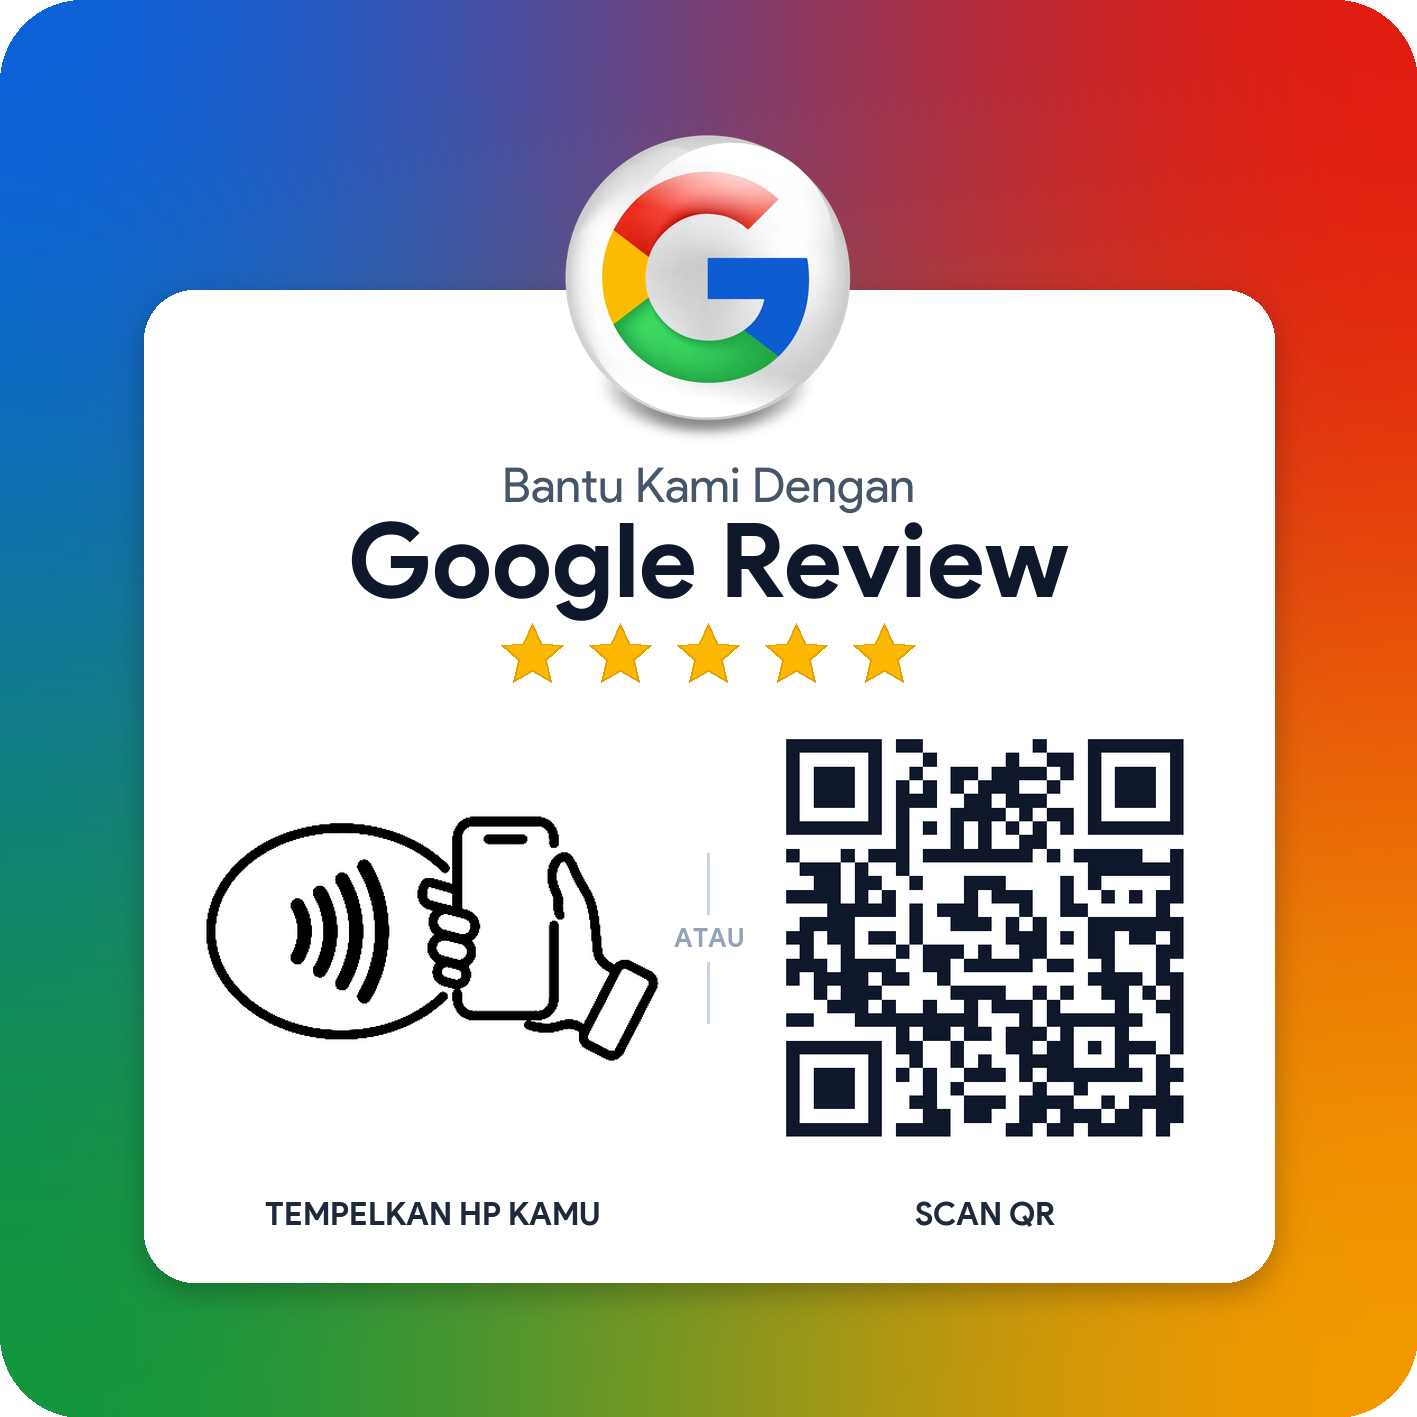
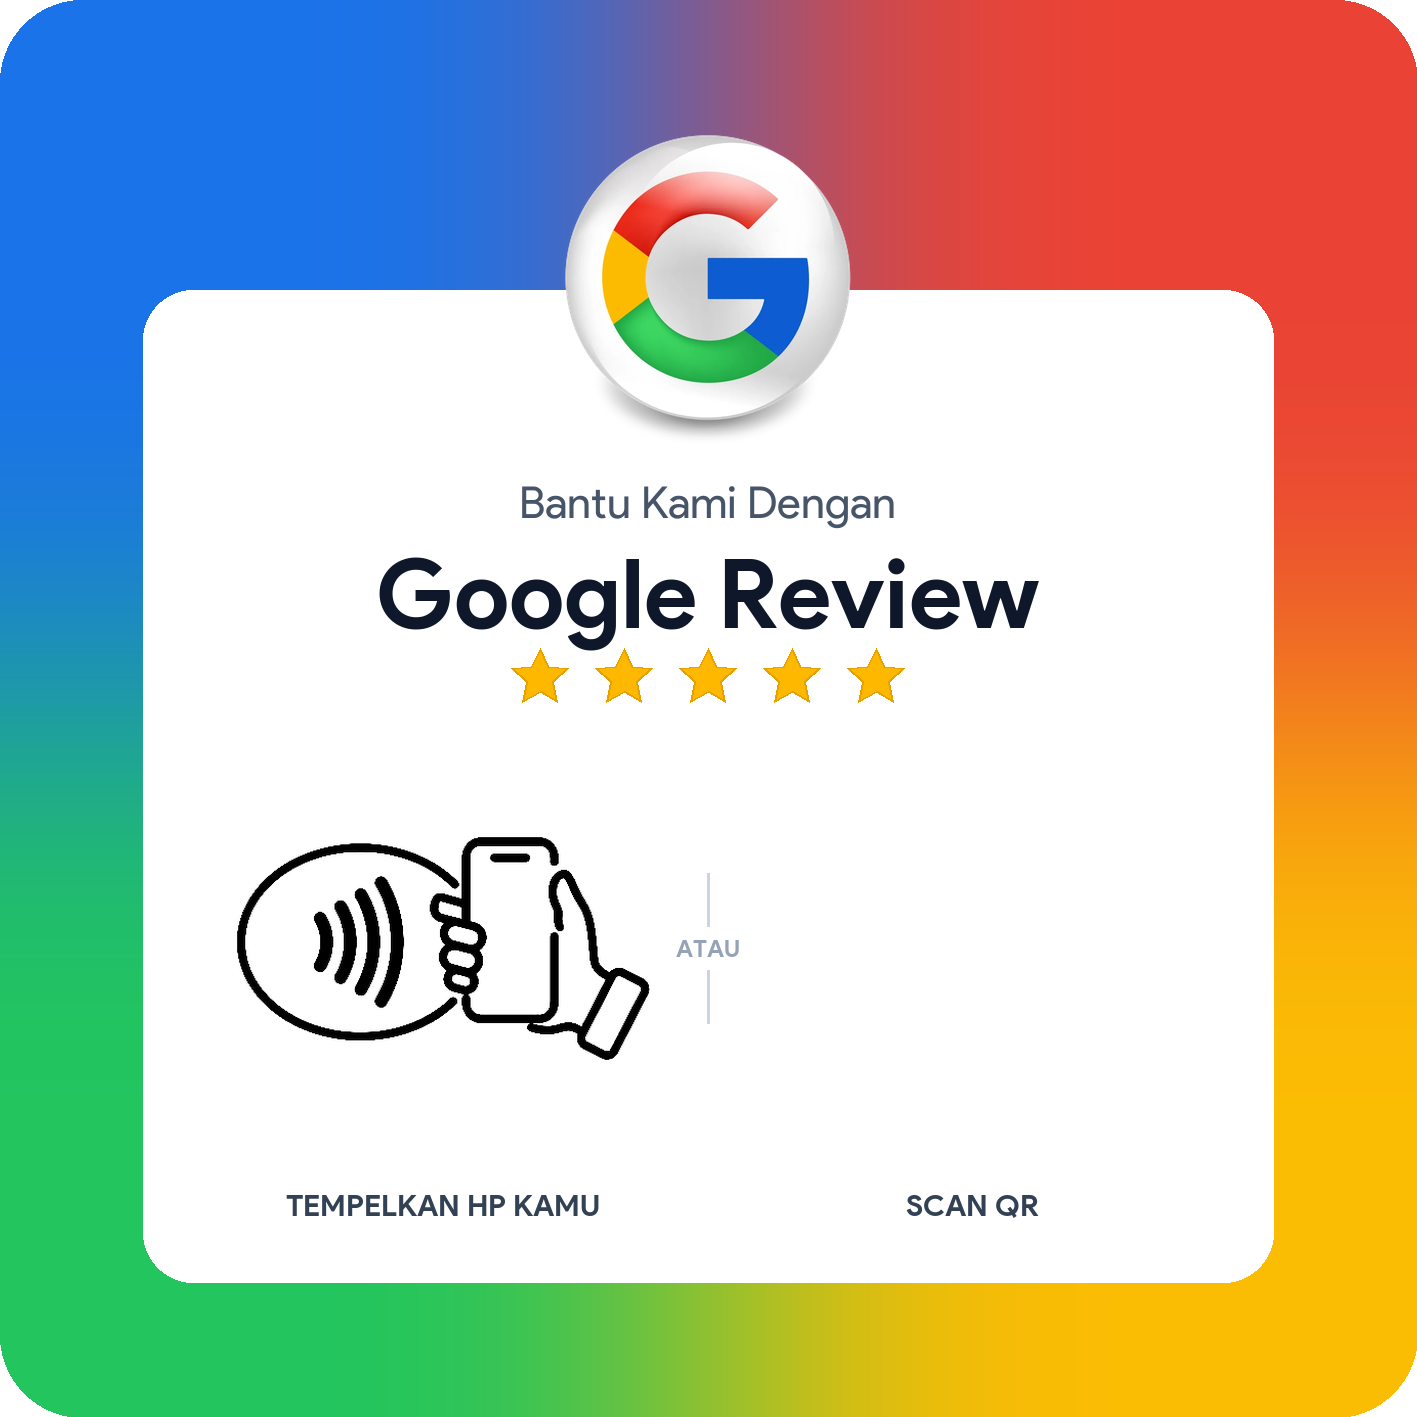
fix: calibrate proportional typography and vertical rhythm on canvas print stickers and preview

diff --git a/src/app/admin/print-stickers/page.tsx b/src/app/admin/print-stickers/page.tsx
@@ -241,26 +241,27 @@ function PrintStickersContent() {
             logoSize
           );
 
-          // 4. Header: Indonesian Text 1:1 with Physical Plaque (Zero Overlap with Logo)
+          // 4. Header: Indonesian Text 1:1 with Physical Plaque (Calibrated Proportional Breathing Spacing)
           ctx.textAlign = 'center';
+          ctx.textBaseline = 'middle';
 
-          // Line 1: 'Bantu Kami Dengan' (Y = 485, clean 40px gap below logo bottom 445)
+          // Line 1: 'Bantu Kami Dengan' (Center Y = 502, clean 37px gap below 3D logo bottom 445)
           ctx.fillStyle = '#475569';
-          ctx.font = '400 48px "Product Sans", "Google Sans", -apple-system, BlinkMacSystemFont, sans-serif';
-          ctx.fillText('Bantu Kami Dengan', half, 485);
+          ctx.font = '400 44px "Product Sans", "Google Sans", -apple-system, BlinkMacSystemFont, sans-serif';
+          ctx.fillText('Bantu Kami Dengan', half, 502);
 
-          // Line 2: 'Google Review' (Bold 700, authentic Google Product Sans, wide & proportional)
+          // Line 2: 'Google Review' (Bold 700, authentic Google Product Sans, Center Y = 594, clean 35px gap below line 1)
           ctx.fillStyle = '#0f172a';
-          ctx.font = '700 104px "Product Sans", "Google Sans", -apple-system, BlinkMacSystemFont, sans-serif';
-          ctx.fillText('Google Review', half, 560);
+          ctx.font = '700 96px "Product Sans", "Google Sans", -apple-system, BlinkMacSystemFont, sans-serif';
+          ctx.fillText('Google Review', half, 594);
 
-          // 5 Golden Stars (Enlarged proportionally: starOuterR = 33, solid Google Gold #FFB800 + outline #E5A100, span = 418px)
+          // 5 Golden Stars (Calibrated proportionally: starOuterR = 30, span = 396px, Center Y = 678, clean 38px gap below line 2)
           const starCount = 5;
-          const starOuterR = 33;
-          const starInnerR = 15;
-          const starSpacing = 88;
+          const starOuterR = 30;
+          const starInnerR = 14;
+          const starSpacing = 84;
           const startStarX = half - 2 * starSpacing;
-          const starY = 656; // Calibrated: shifted down 14px for perfect vertical rhythm (38px above, 36.5px below)
+          const starY = 678; // Calibrated: shifted down for perfect vertical rhythm
 
           ctx.fillStyle = '#FFB800';
           ctx.strokeStyle = '#E5A100';
@@ -922,7 +923,7 @@ function PrintStickersContent() {
                         </div>
 
                         {/* Title: 1:1 Indonesian Physical Plaque Typography */}
-                        <div className="text-center mt-10 sm:mt-11 space-y-0.5">
+                        <div className="text-center mt-9 sm:mt-10 space-y-1.5 sm:space-y-2">
                           <div
                             className="text-[12px] sm:text-[13px] font-normal text-slate-600 tracking-normal"
                             style={{ fontFamily: '"Product Sans", "Google Sans", sans-serif' }}
@@ -930,7 +931,7 @@ function PrintStickersContent() {
                             Bantu Kami Dengan
                           </div>
                           <div
-                            className="text-[24px] sm:text-[27px] font-bold text-slate-900 tracking-[-0.01em] leading-tight"
+                            className="text-[23px] sm:text-[25px] font-bold text-slate-900 tracking-[-0.01em] leading-tight"
                             style={{ fontFamily: '"Product Sans", "Google Sans", sans-serif' }}
                           >
                             Google Review
